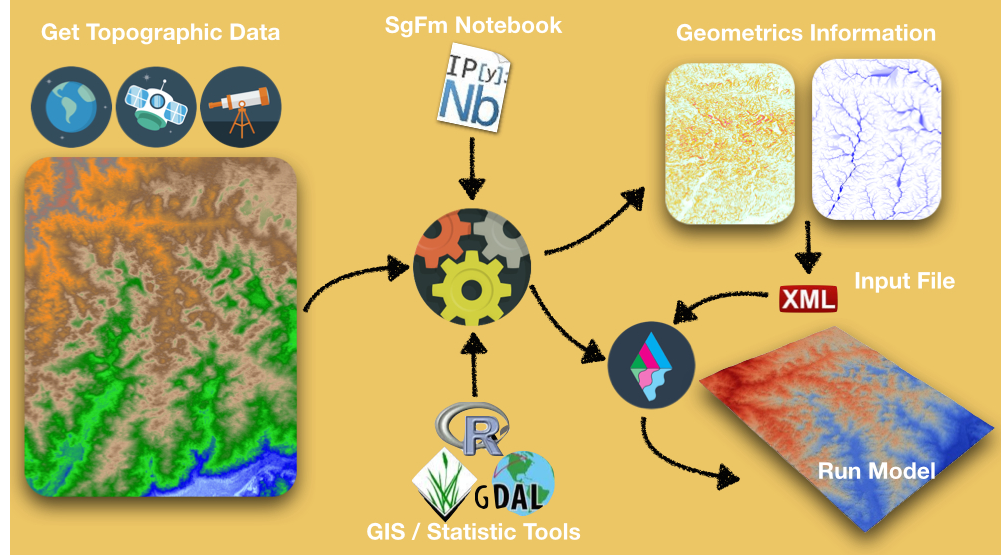
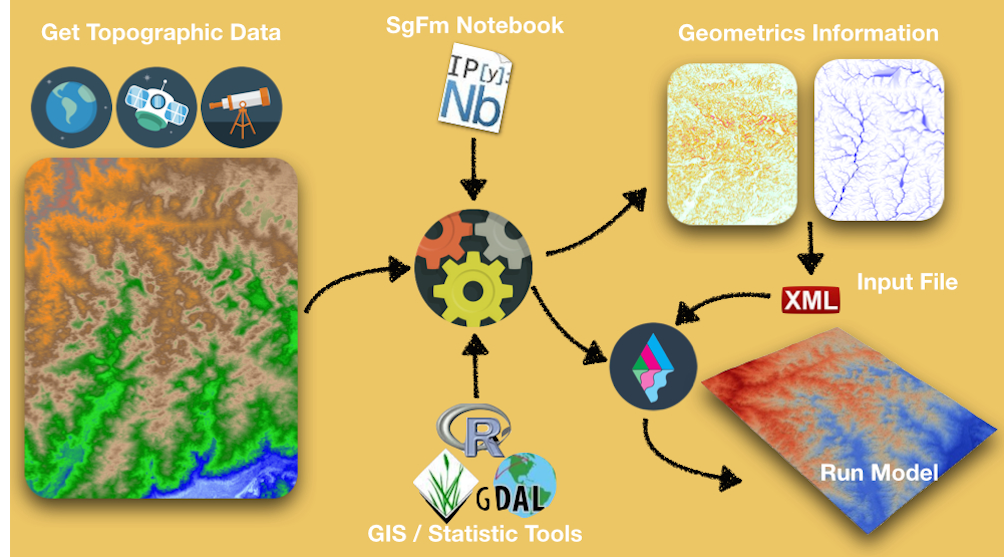
update

diff --git a/GISinput.html b/GISinput.html
@@ -160,7 +160,7 @@ Here you will find some workflows to generate topographic and stratigraphic inpu
 				</div>
     	   	</div>
 			<div class="row">
-  				<div class="col-xs-8 col-xs-offset-2 text-center"><br>
+  				<div class="col-lg-10 col-lg-offset-1 text-center"><br>
 					<img src="figures/gis1.png" class="img-responsive img-centered" alt=""><br>
 				</div>
 			</div>
@@ -194,7 +194,7 @@ Here you will find some workflows to generate topographic and stratigraphic inpu
 				</div>
     	   	</div>
 			<div class="row">
-  				<div class="col-xs-8 col-xs-offset-2 text-center"><br>
+  				<div class="col-lg-10 col-lg-offset-1 text-center"><br>
 					<img src="figures/gis2.png" class="img-responsive img-centered" alt=""><br>
 				</div>
 			</div>
